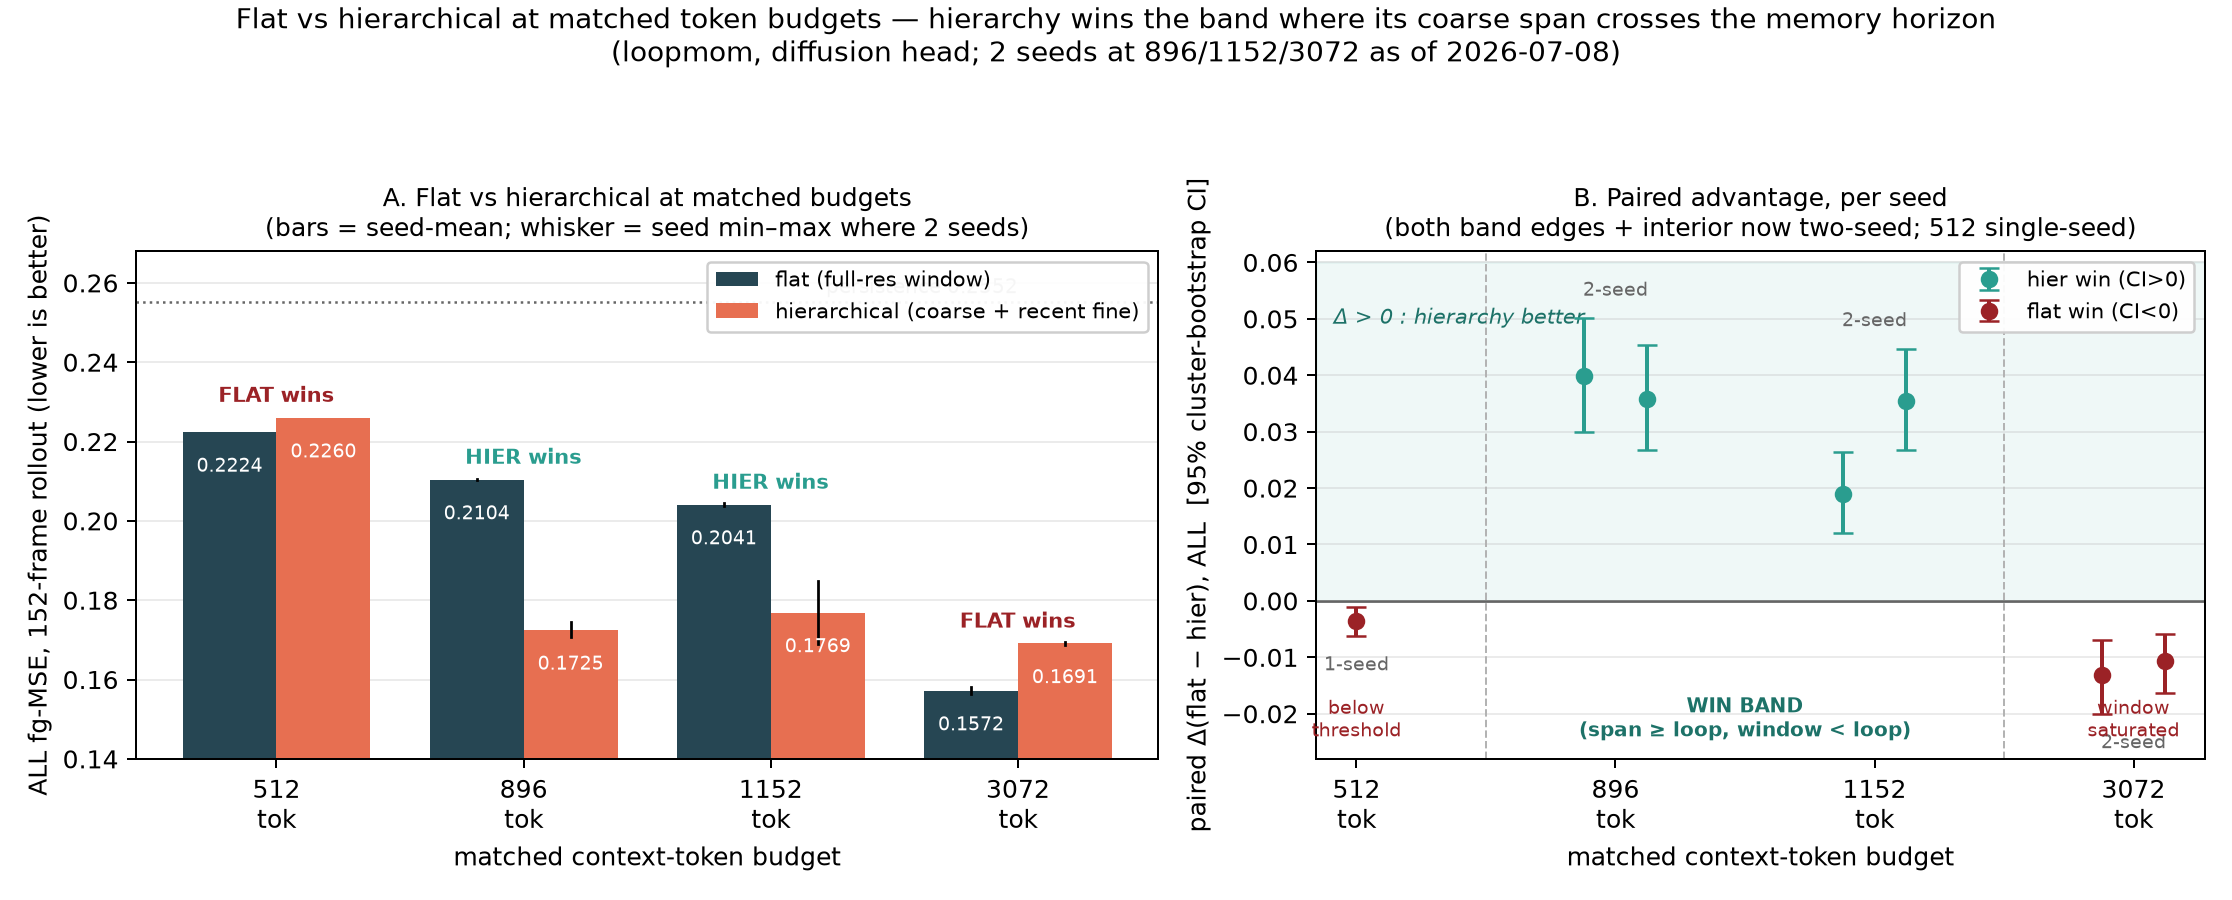
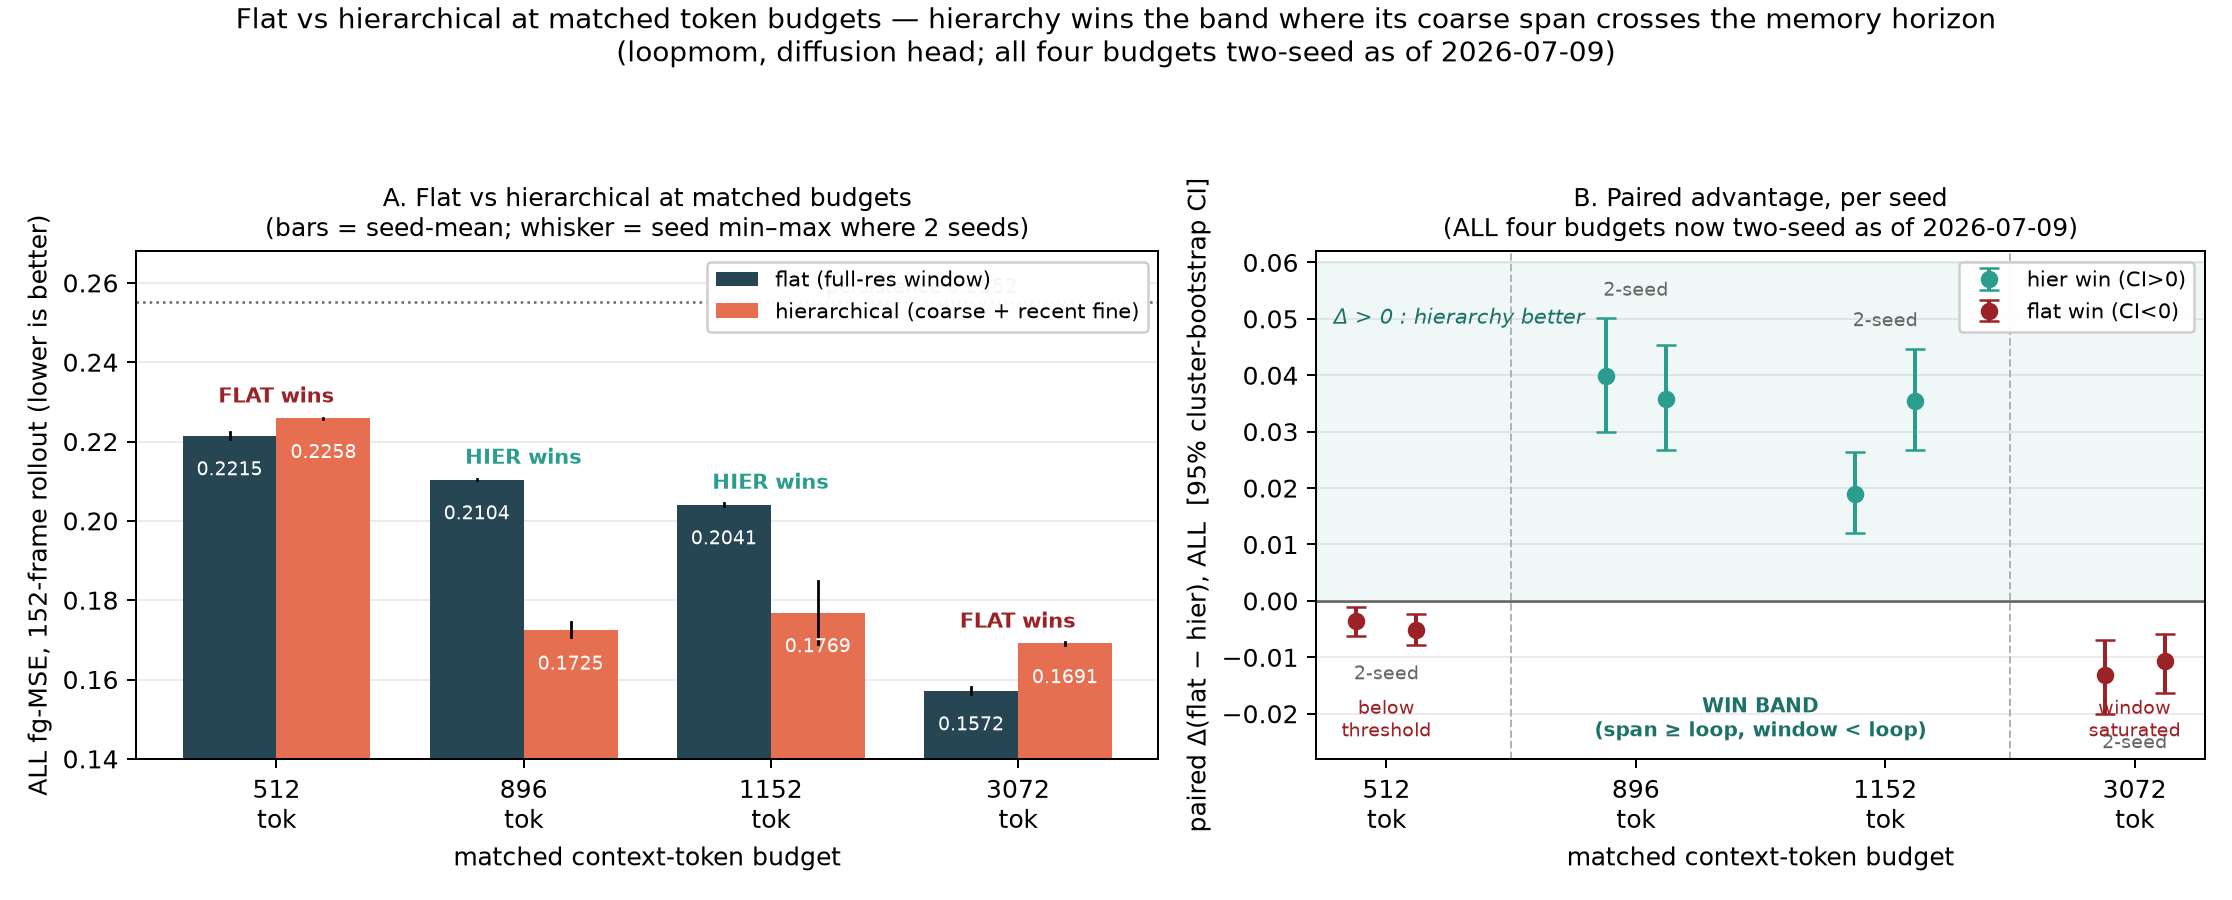
R-E: 512-token pair two-seed (flat wins both, -0.0036/-0.0051, below-threshold as pre-registered) — EVERY frontier point now two-seed; fig10 updated (512 two-seed); R-F/R-G bracket chain launched

diff --git a/scripts/make_fig10_flat_vs_hier.py b/scripts/make_fig10_flat_vs_hier.py
@@ -15,11 +15,11 @@ import matplotlib.pyplot as plt
 
 # ---- measured ALL fg-MSE (diffusion head), per budget: seed values from the npz ----
 BUD = [512, 896, 1152, 3072]
-flat = {512: [0.2224], 896: [0.2106, 0.2102], 1152: [0.2038, 0.2044], 3072: [0.1564, 0.1580]}
-hier = {512: [0.2260], 896: [0.1706, 0.1744], 1152: [0.1848, 0.1690], 3072: [0.1695, 0.1687]}
+flat = {512: [0.2224, 0.2206], 896: [0.2106, 0.2102], 1152: [0.2038, 0.2044], 3072: [0.1564, 0.1580]}
+hier = {512: [0.2260, 0.2257], 896: [0.1706, 0.1744], 1152: [0.1848, 0.1690], 3072: [0.1695, 0.1687]}
 # paired Δ(flat − hier) per seed, with 95% cluster CIs (from the compare logs)
 delta = {  # budget: list of (Δ, lo, hi) per seed
-    512:  [(-0.0036, -0.0063, -0.0010)],
+    512:  [(-0.0036, -0.0063, -0.0010), (-0.0051, -0.0079, -0.0024)],
     896:  [(+0.0399, +0.0299, +0.0501), (+0.0358, +0.0267, +0.0454)],
     1152: [(+0.0189, +0.0121, +0.0264), (+0.0354, +0.0267, +0.0447)],
     3072: [(-0.0131, -0.0201, -0.0069), (-0.0107, -0.0163, -0.0058)],
@@ -93,13 +93,13 @@ ax[1].text(1.5, -0.024, "WIN BAND\n(span ≥ loop, window < loop)", ha="center",
 ax[1].text(0, -0.024, "below\nthreshold", ha="center", fontsize=7.5, color=C_LOSS)
 ax[1].text(3, -0.024, "window\nsaturated", ha="center", fontsize=7.5, color=C_LOSS)
 ax[1].set_title("B. Paired advantage, per seed\n"
-                "(both band edges + interior now two-seed; 512 single-seed)", fontsize=10)
+                "(ALL four budgets now two-seed as of 2026-07-09)", fontsize=10)
 ax[1].legend(loc="upper right", fontsize=8.5, framealpha=0.95)
 ax[1].grid(axis="y", alpha=0.25)
 
 fig.suptitle("Flat vs hierarchical at matched token budgets — hierarchy wins the band where its "
-             "coarse span crosses the memory horizon\n(loopmom, diffusion head; 2 seeds at "
-             "896/1152/3072 as of 2026-07-08)", fontsize=11, y=0.995)
+             "coarse span crosses the memory horizon\n(loopmom, diffusion head; all four budgets "
+             "two-seed as of 2026-07-09)", fontsize=11, y=0.995)
 fig.tight_layout(rect=[0, 0, 1, 0.93])
 out = r"C:\Users\leoni\Documents\projects\hierarchical-video-prediction\docs\figures\fig10_flat_vs_hier.png"
 fig.savefig(out, dpi=180)

diff --git a/docs/SPATIAL_FACTORIAL.md b/docs/SPATIAL_FACTORIAL.md
@@ -286,6 +286,15 @@ trigger a re-examination of the threshold arithmetic (reported, not buried).
 and the geometric-threshold claim is softened to "consistent with, not exactly at, 512–896".
 **Rule:** symmetric pair, both seeds reported, no soft reads.
 
+### R-E MEASURED (2026-07-09; `logs_rhcp/frontier_bottom_s1.log`; RE_DONE) — **REPLICATED (below-threshold flat win)**
+
+Seed 1: hier-short 0.2257 / sharp 0.0397 vs flat-short 0.2206 / 0.0419; paired Δ ALL **−0.0051
+[−0.0079, −0.0024]** — flat wins, replicating seed 0 (−0.0036). The 512-token below-threshold
+point is now two-seed (flat wins both), as pre-registered (a 6-frame coarse window cannot cover
+the 48-frame loop → coarse tokens are redundancy). Seed spreads: hier-short 0.0003 (tight — no
+memory circuit to be seed-variable about, unlike the loop-covering hier arms), flat-short 0.0018.
+**Every frontier point is now two-seed** (512 flat / 896 hier / 1,152 hier / 3,072 flat).
+
 ### R-F/R-G (pre-registered 2026-07-09, BEFORE the runs): the upper-edge BRACKET (1792 & 2432 tok)
 
 **What a token is (for the record):** a token = one spatial cell of a latent frame projected to
